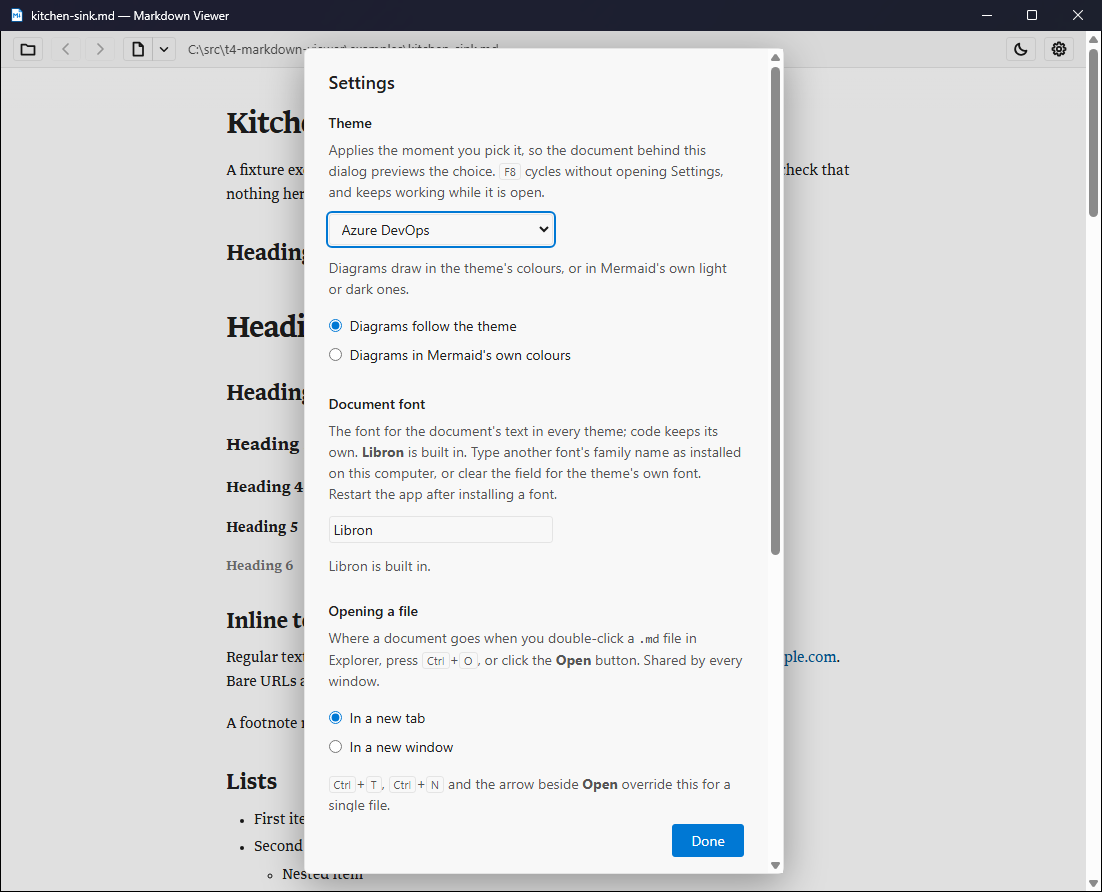
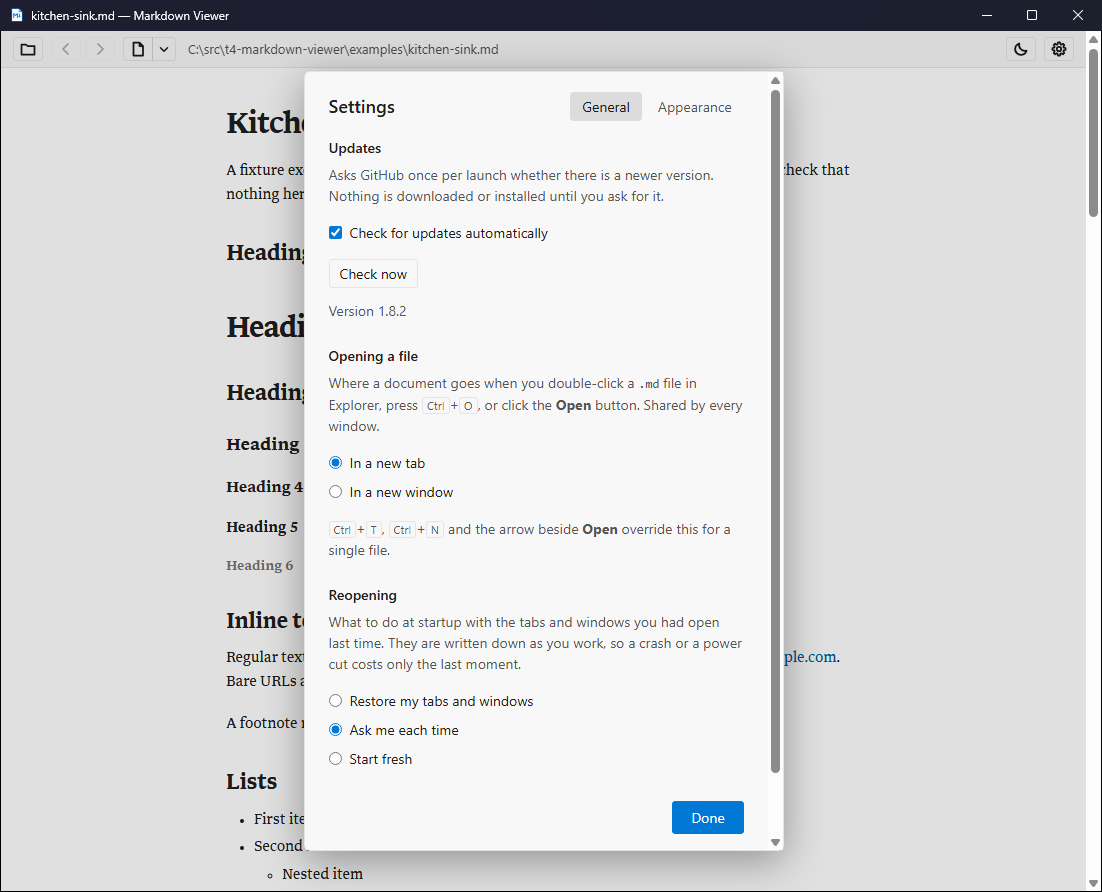
Group Settings into General and Appearance tabs, with updates first

Changed region(s): [[0.2777, 0.0303, 0.7096, 0.9081], [0.2777, 0.8778, 0.7096, 0.9989]]

diff --git a/src/index.html b/src/index.html
@@ -171,76 +171,86 @@
          you were reading, and every window shares these values anyway. -->
     <dialog id="settings-dialog" aria-labelledby="settings-title">
       <form method="dialog">
-        <h2 id="settings-title">Settings</h2>
+        <div id="settings-head">
+          <h2 id="settings-title">Settings</h2>
+          <div id="settings-tabs" role="tablist" aria-label="Settings sections">
+            <button type="button" role="tab" id="settings-tab-general" aria-controls="settings-general" aria-selected="true">General</button>
+            <button type="button" role="tab" id="settings-tab-appearance" aria-controls="settings-appearance" aria-selected="false" tabindex="-1">Appearance</button>
+          </div>
+        </div>
 
-        <fieldset>
-          <legend>Theme</legend>
-          <p class="hint">
-            Applies the moment you pick it, so the document behind this dialog previews the choice.
-            <kbd>F8</kbd> cycles without opening Settings, and keeps working while it is open.
-          </p>
-          <select id="theme-picker" aria-label="Theme"></select>
-          <p class="hint diagram-colours-hint">Diagrams draw in the theme's colours, or in Mermaid's own light or dark ones.</p>
-          <label><input type="radio" name="diagram-colours" value="theme" /> Diagrams follow the theme</label>
-          <label><input type="radio" name="diagram-colours" value="mermaid" /> Diagrams in Mermaid's own colours</label>
-        </fieldset>
+        <div id="settings-general" role="tabpanel" aria-labelledby="settings-tab-general">
+          <fieldset>
+            <legend>Updates</legend>
+            <p class="hint">
+              Asks GitHub once per launch whether there is a newer version. Nothing is downloaded or
+              installed until you ask for it.
+            </p>
+            <label><input type="checkbox" id="auto-update" /> Check for updates automatically</label>
+            <p id="update-check-row">
+              <button id="check-now" class="minor" type="button">Check now</button>
+              <span id="update-status" role="status"></span>
+              <!-- Unhidden by the same check that unhides the bar's Update button. -->
+              <button id="settings-update" class="minor" type="button" hidden>Update…</button>
+            </p>
+            <p class="hint">Version <span id="app-version"></span></p>
+          </fieldset>
 
-        <fieldset>
-          <legend>Document font</legend>
-          <p class="hint">
-            The font for the document's text in every theme; code keeps its own. <b>Libron</b> is
-            built in. Type another font's family name as installed on this computer, or clear the field
-            for the theme's own font. Restart the app after installing a font.
-          </p>
-          <input id="doc-font" type="text" aria-label="Document font" placeholder="The theme's own font"
-                 spellcheck="false" autocomplete="off" autocorrect="off" autocapitalize="off" />
-          <p id="doc-font-note" class="hint" role="status"></p>
-        </fieldset>
+          <fieldset>
+            <legend>Opening a file</legend>
+            <p class="hint">
+              Where a document goes when you double-click a <code>.md</code> file in Explorer, press
+              <kbd>Ctrl</kbd>+<kbd>O</kbd>, or click the <b>Open</b> button. Shared by every window.
+            </p>
+            <label><input type="radio" name="open-mode" value="tab" /> In a new tab</label>
+            <label><input type="radio" name="open-mode" value="window" /> In a new window</label>
+            <p class="hint">
+              <kbd>Ctrl</kbd>+<kbd>T</kbd>, <kbd>Ctrl</kbd>+<kbd>N</kbd> and the arrow beside
+              <b>Open</b> override this for a single file.
+            </p>
+          </fieldset>
 
-        <fieldset>
-          <legend>Opening a file</legend>
-          <p class="hint">
-            Where a document goes when you double-click a <code>.md</code> file in Explorer, press
-            <kbd>Ctrl</kbd>+<kbd>O</kbd>, or click the <b>Open</b> button. Shared by every window.
-          </p>
-          <label><input type="radio" name="open-mode" value="tab" /> In a new tab</label>
-          <label><input type="radio" name="open-mode" value="window" /> In a new window</label>
-          <p class="hint">
-            <kbd>Ctrl</kbd>+<kbd>T</kbd>, <kbd>Ctrl</kbd>+<kbd>N</kbd> and the arrow beside
-            <b>Open</b> override this for a single file.
-          </p>
-        </fieldset>
+          <fieldset>
+            <legend>Reopening</legend>
+            <p class="hint">
+              What to do at startup with the tabs and windows you had open last time. They are written
+              down as you work, so a crash or a power cut costs only the last moment.
+            </p>
+            <label><input type="radio" name="reopen" value="restore" /> Restore my tabs and windows</label>
+            <label><input type="radio" name="reopen" value="ask" /> Ask me each time</label>
+            <label><input type="radio" name="reopen" value="off" /> Start fresh</label>
+            <p class="hint">
+              <b>Ask me each time</b> puts a <b>Reopen</b> button on the empty screen.
+              <b>Start fresh</b> keeps nothing at all, and forgets what is saved right away.
+            </p>
+          </fieldset>
+        </div>
 
-        <fieldset>
-          <legend>Reopening</legend>
-          <p class="hint">
-            What to do at startup with the tabs and windows you had open last time. They are written
-            down as you work, so a crash or a power cut costs only the last moment.
-          </p>
-          <label><input type="radio" name="reopen" value="restore" /> Restore my tabs and windows</label>
-          <label><input type="radio" name="reopen" value="ask" /> Ask me each time</label>
-          <label><input type="radio" name="reopen" value="off" /> Start fresh</label>
-          <p class="hint">
-            <b>Ask me each time</b> puts a <b>Reopen</b> button on the empty screen.
-            <b>Start fresh</b> keeps nothing at all, and forgets what is saved right away.
-          </p>
-        </fieldset>
+        <div id="settings-appearance" role="tabpanel" aria-labelledby="settings-tab-appearance" hidden>
+          <fieldset>
+            <legend>Theme</legend>
+            <p class="hint">
+              Applies the moment you pick it, so the document behind this dialog previews the choice.
+              <kbd>F8</kbd> cycles without opening Settings, and keeps working while it is open.
+            </p>
+            <select id="theme-picker" aria-label="Theme"></select>
+            <p class="hint diagram-colours-hint">Diagrams draw in the theme's colours, or in Mermaid's own light or dark ones.</p>
+            <label><input type="radio" name="diagram-colours" value="theme" /> Diagrams follow the theme</label>
+            <label><input type="radio" name="diagram-colours" value="mermaid" /> Diagrams in Mermaid's own colours</label>
+          </fieldset>
 
-        <fieldset>
-          <legend>Updates</legend>
-          <p class="hint">
-            Asks GitHub once per launch whether there is a newer version. Nothing is downloaded or
-            installed until you ask for it.
-          </p>
-          <label><input type="checkbox" id="auto-update" /> Check for updates automatically</label>
-          <p id="update-check-row">
-            <button id="check-now" class="minor" type="button">Check now</button>
-            <span id="update-status" role="status"></span>
-            <!-- Unhidden by the same check that unhides the bar's Update button. -->
-            <button id="settings-update" class="minor" type="button" hidden>Update…</button>
-          </p>
-          <p class="hint">Version <span id="app-version"></span></p>
-        </fieldset>
+          <fieldset>
+            <legend>Document font</legend>
+            <p class="hint">
+              The font for the document's text in every theme; code keeps its own. <b>Libron</b> is
+              built in. Type another font's family name as installed on this computer, or clear the field
+              for the theme's own font. Restart the app after installing a font.
+            </p>
+            <input id="doc-font" type="text" aria-label="Document font" placeholder="The theme's own font"
+                   spellcheck="false" autocomplete="off" autocorrect="off" autocapitalize="off" />
+            <p id="doc-font-note" class="hint" role="status"></p>
+          </fieldset>
+        </div>
 
         <div id="settings-actions"><button value="close">Done</button></div>
       </form>

diff --git a/src/app.js b/src/app.js
@@ -37,6 +37,7 @@ const els = {
   sortMenu: document.getElementById("sort-menu"),
   settingsBtn: document.getElementById("settings-btn"),
   settings: document.getElementById("settings-dialog"),
+  settingsTabs: document.getElementById("settings-tabs"),
   modeRadios: document.querySelectorAll('#settings-dialog input[name="open-mode"]'),
   reopenRadios: document.querySelectorAll('#settings-dialog input[name="reopen"]'),
   diagramColourRadios: document.querySelectorAll('#settings-dialog input[name="diagram-colours"]'),
@@ -4948,10 +4949,29 @@ async function onKeydown(event) {
     // Cmd+, is the Mac idiom for preferences, and the editors copied it onto
     // the other two platforms. Same door as the gear.
     event.preventDefault();
-    showOpenMenu(false);
-    showDocFontNote(els.docFont.value);
-    els.settings.showModal();
+    openSettings();
   }
+}
+
+/** Settings opens on General, where the update check is, whatever tab it closed on. */
+function openSettings() {
+  showOpenMenu(false);
+  showDocFontNote(els.docFont.value);
+  selectSettingsTab("settings-general");
+  els.settings.showModal();
+  els.settings.scrollTop = 0; // a closed dialog keeps its scroll, and would not take this
+}
+
+/** Shows one panel; its tab is the strip's only tab stop, as a tab strip is expected to be. */
+function selectSettingsTab(panelId) {
+  for (const tab of els.settingsTabs.children) {
+    const on = tab.getAttribute("aria-controls") === panelId;
+    tab.setAttribute("aria-selected", on);
+    tab.tabIndex = on ? 0 : -1;
+    document.getElementById(tab.getAttribute("aria-controls")).hidden = !on;
+  }
+  // From the top, so a scrolled panel can't leave the strip higher than the last time.
+  els.settings.scrollTop = 0;
 }
 
 /** Thumb buttons on a mouse, as in a browser. */
@@ -5102,10 +5122,20 @@ async function main() {
     true,
   );
 
-  els.settingsBtn.addEventListener("click", () => {
-    showOpenMenu(false);
-    showDocFontNote(els.docFont.value);
-    els.settings.showModal();
+  els.settingsBtn.addEventListener("click", openSettings);
+  els.settingsTabs.addEventListener("click", (e) => {
+    const tab = e.target.closest('[role="tab"]');
+    if (tab) selectSettingsTab(tab.getAttribute("aria-controls"));
+  });
+  // ←/→ move along the strip, wrapping, and take the focus with them.
+  els.settingsTabs.addEventListener("keydown", (e) => {
+    if (e.key !== "ArrowLeft" && e.key !== "ArrowRight") return;
+    e.preventDefault();
+    const tabs = [...els.settingsTabs.children];
+    const i = tabs.indexOf(document.activeElement);
+    const next = tabs[(i + (e.key === "ArrowRight" ? 1 : tabs.length - 1)) % tabs.length];
+    selectSettingsTab(next.getAttribute("aria-controls"));
+    next.focus();
   });
   for (const radio of els.modeRadios) {
     radio.addEventListener("change", () => {

diff --git a/src/base.css b/src/base.css
@@ -677,6 +677,12 @@ li[aria-expanded="true"] > .tree-row .tree-twist {
  * theme file needs to know this dialog exists.
  */
 #settings-dialog {
+  /* Hung from the top, not centred: the tabs differ in height, and centring would move the
+     tab strip from under the pointer on every switch. */
+  margin-top: 2.5rem;
+  max-height: calc(100% - 5rem);
+  /* Scrolling past the end stops here, not in the document behind. */
+  overscroll-behavior: contain;
   max-width: 30rem;
   padding: 0;
   border: 1px solid var(--ui-border);
@@ -686,10 +692,11 @@ li[aria-expanded="true"] > .tree-row .tree-twist {
   font: 400 0.875rem/1.5 "Segoe UI", system-ui, sans-serif;
   box-shadow: 0 10px 40px rgba(0, 0, 0, 0.35);
   /* Focus scrolls a control into view only when it is out of sight; the
-     pinned footer hides the bottom of the box, so take its height off what
-     counts as in sight. The footer is about 3.8rem tall: change both
-     together. */
+     pinned footer and header hide the bottom and top of the box, so take
+     their heights off what counts as in sight. The footer is about 3.8rem
+     tall and the header about 3.6rem: change each with its rule. */
   scroll-padding-bottom: 4rem;
+  scroll-padding-top: 3.75rem;
 }
 
 /*
@@ -705,10 +712,53 @@ li[aria-expanded="true"] > .tree-row .tree-twist {
   padding: 1.25rem 1.5rem 1rem;
 }
 
+/* The title, and the tabs beside it, as in t4-git-ui. Pinned to the top of the dialog's scroll
+   box, like the Done row to its foot: General scrolls even in an ordinary window, and the tabs
+   should not go with it. The margins and padding work as #settings-actions' do. */
+#settings-head {
+  position: sticky;
+  top: 0;
+  display: flex;
+  align-items: center;
+  justify-content: space-between;
+  gap: 1rem;
+  margin: -1.25rem -1.5rem 0.5rem;
+  padding: 1.25rem 1.5rem 0.5rem;
+  background: var(--ui-bg);
+}
+
 #settings-title {
-  margin: 0 0 1rem;
+  margin: 0;
   font-size: 1.125rem;
   font-weight: 600;
+}
+
+#settings-tabs {
+  display: flex;
+  gap: 0.25rem;
+}
+
+#settings-tabs button {
+  padding: 0.25rem 0.75rem;
+  border: 0;
+  border-radius: 4px;
+  background: transparent;
+  color: var(--ui-fg-muted);
+  font: inherit;
+}
+
+#settings-tabs button:hover {
+  color: var(--ui-fg);
+}
+
+#settings-tabs button[aria-selected="true"] {
+  background: color-mix(in srgb, var(--ui-fg) 12%, transparent);
+  color: var(--ui-fg);
+}
+
+#settings-tabs button:focus-visible {
+  outline: 2px solid var(--ui-accent);
+  outline-offset: 1px;
 }
 
 #settings-dialog fieldset {

diff --git a/README.md b/README.md
@@ -45,8 +45,8 @@ Electron build starts around 150 MB.
   folder. The default is Azure DevOps Dark.
 - **Reads in Libron.** Documents are set in
   [Libron](https://github.com/nicoverbruggen/libron), a book font built into the
-  app, in every theme. **Settings → Document font** takes another font installed
-  on your computer, or clears to each theme's own.
+  app, in every theme. **Settings → Appearance → Document font** takes another
+  font installed on your computer, or clears to each theme's own.
 - **Reads like a page.** Text sits in a centred column about 90 characters wide,
   about 120 in a wide window; tables, diagrams and pictures spread wider when they
   need to, and long shell commands wrap.
@@ -110,9 +110,9 @@ the toolbar. Clicking through it downloads the new version, installs it, and
 restarts with your windows and tabs where they were. Nothing is downloaded
 before you say so.
 
-Turn the check off in **Settings → Updates**; **Check now** there works either
-way, shows the version you are on, and offers the update right there when it
-finds one.
+Turn the check off in **Settings → General → Updates**; **Check now** there
+works either way, shows the version you are on, and offers the update right
+there when it finds one.
 
 Two things it deliberately does not do. It never installs silently — an app
 without a trusted signature that swaps itself out behind your back has earned
@@ -301,12 +301,12 @@ in-page jump it really is, not a reload of the page you are on.
 
 ![Settings](docs/screenshots/settings.png)
 
-The **gear** opens Settings, where a pair of radio buttons decides where a file
-opens: in a new tab, or in a new window. That covers every way a document
-arrives without you saying otherwise — double-clicking it in your file manager,
-`Ctrl+O`, or the **Open** button. It is shared by every open window, because a
-double-click has to land *somewhere* and per-window disagreement about that is
-unguessable.
+The **gear** opens Settings, where a pair of radio buttons on the General tab
+decides where a file opens: in a new tab, or in a new window. That covers every
+way a document arrives without you saying otherwise — double-clicking it in your
+file manager, `Ctrl+O`, or the **Open** button. It is shared by every open
+window, because a double-click has to land *somewhere* and per-window
+disagreement about that is unguessable.
 
 To go against the default just this once, use the **arrow beside Open** — it
 offers *Open in new tab* and *Open in new window* directly, and changes nothing
@@ -360,7 +360,7 @@ gives the app no warning (a crash, a power cut, a `taskkill /F`, a shutdown, or
 a Quit from the Dock or the app switcher) costs only what changed since things
 last stood still for half a second.
 
-**Settings → Reopening** decides what the next launch makes of it:
+**Settings → General → Reopening** decides what the next launch makes of it:
 
 - **Restore my tabs and windows** — everything comes back on its own. A file you
   double-clicked to start the app opens in the main window, with the saved
@@ -423,16 +423,16 @@ It shows up in the Settings list immediately and re-applies every time you save
 it. A file there shadows a bundled theme with the same name. Full contract in
 [`src-tauri/themes/README.md`](src-tauri/themes/README.md).
 
-Themes are picked from the dropdown in **Settings** (the gear), and applied the
-moment you select one — the document behind the dialog is the preview, which is
-why that dialog's backdrop is barely tinted. `F8` cycles without opening
+Themes are picked from the dropdown in **Settings → Appearance** (the gear), and
+applied the moment you select one — the document behind the dialog is the
+preview, which is why that dialog's backdrop is barely tinted. `F8` cycles without opening
 Settings, and keeps working while it is open.
 
 ### Document font
 
 Documents are set in Libron, a font made for reading and built into the app, in
 every theme; code keeps the theme's monospace font, and diagrams follow the
-document. **Settings → Document font** changes it for every window:
+document. **Settings → Appearance → Document font** changes it for every window:
 
 - Type the family name of a font installed on your computer. The note under the
   field says whether it is there. A font installed while the app is running
@@ -576,9 +576,9 @@ carry a `#` fragment, since `#` starts a comment anywhere in a sequence link
 (`notes.md#part` and `https://x/#a` are cut too). A relative file or a web
 address without a fragment works.
 
-Diagrams take their colours from the theme by default — **Settings → Theme**
-offers **Diagrams in Mermaid's own colours**, light or dark, instead, a choice
-shared by every window. With **Diagrams follow the theme**, a diagram's palette
+Diagrams take their colours from the theme by default — **Settings → Appearance
+→ Theme** offers **Diagrams in Mermaid's own colours**, light or dark, instead, a
+choice shared by every window. With **Diagrams follow the theme**, a diagram's palette
 (part of what it is cached under, so switching either redraws it) comes from how
 the theme styles a document: the page background, the prose text colour, the
 code-block background and the link colour, with category colours (pie slices,
